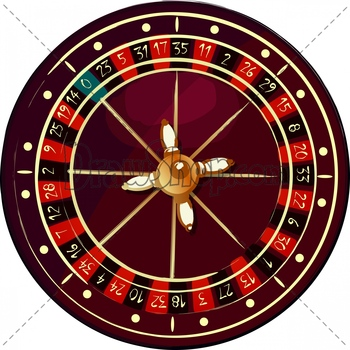
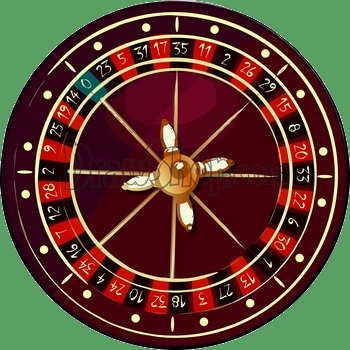
Improved interface, added bg, added table layout

diff --git a/myscript.js b/myscript.js
@@ -14,7 +14,7 @@ var angles=[33,22,6,30,1,13,27,3,18,32,10,24,4,34,16,7,12,28,2,9,25,19,14,0,23,5
 
 var canvas= oCanvas.create({
 canvas: "#canvas",
-//background: "#0f0",
+background: "#5aa064",
 fps:30
 });
 
@@ -48,6 +48,15 @@ image: "wheel.jpg",
 rotation:0
 });
 
+var layout=canvas.display.image({
+x:650,
+y:canvas.height/2-50,
+width:500,
+height:300,
+origin:{x:"top", y:"left"},
+image: "roulette-table.jpg",
+});
+
 var ball= canvas.display.arc({
 x:50,
 y:50,
@@ -79,6 +88,7 @@ font: "bold 15px sans-serif",
 text:"Stop",
 fill: "#0aa",
 });
+
 var lucknum=stopbtn.clone({x:200, y:0});
 var lucknumtext=stopbtntext.clone({ x:lucknum.width/2, y:lucknum.height/2, text:"Waiting"});
 //////////////////////////////////////////////////////////////
@@ -212,7 +222,7 @@ canvas.addChild(indi);
 canvas.addChild(ball);
 lucknum.addChild(lucknumtext);
 canvas.addChild(lucknum);
-
+canvas.addChild(layout);
 
 
 
